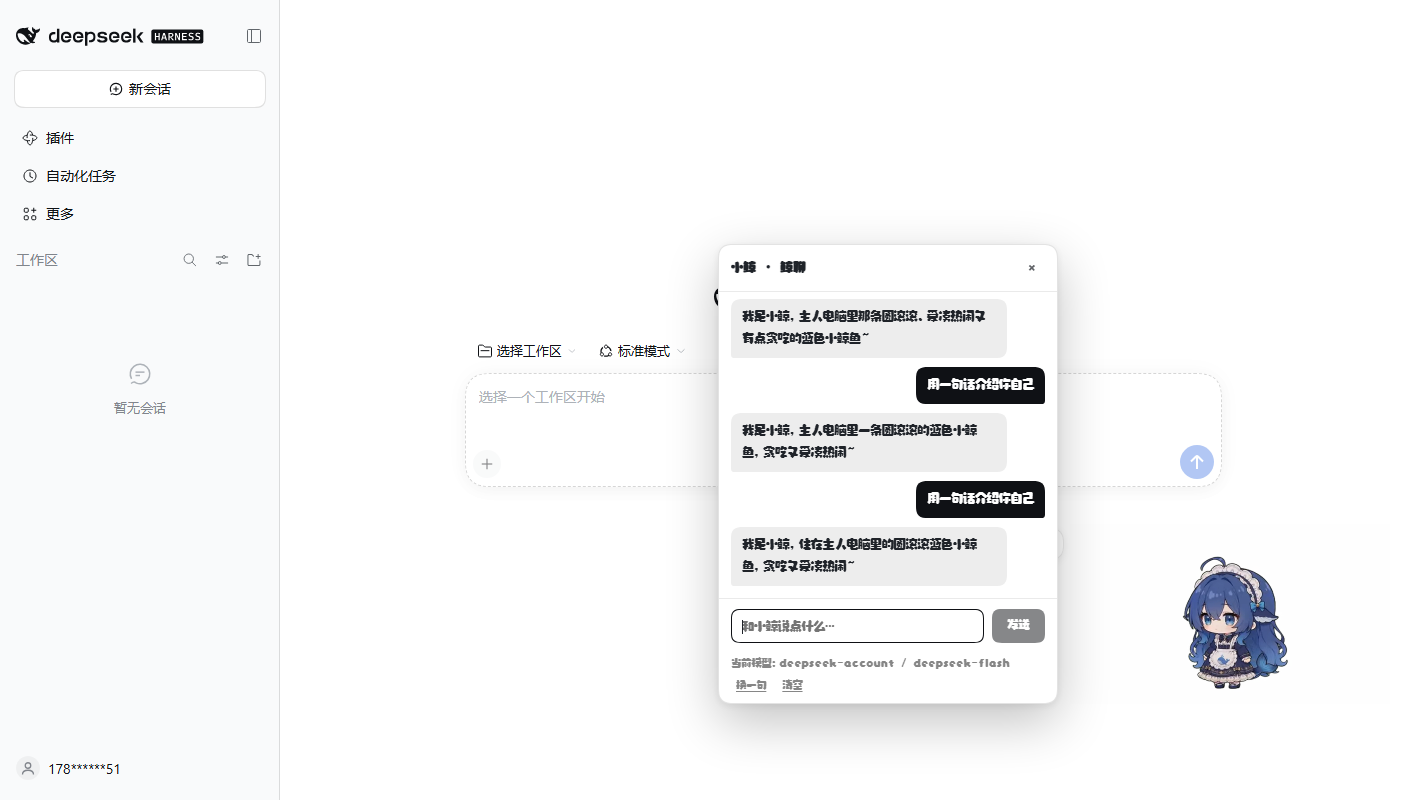
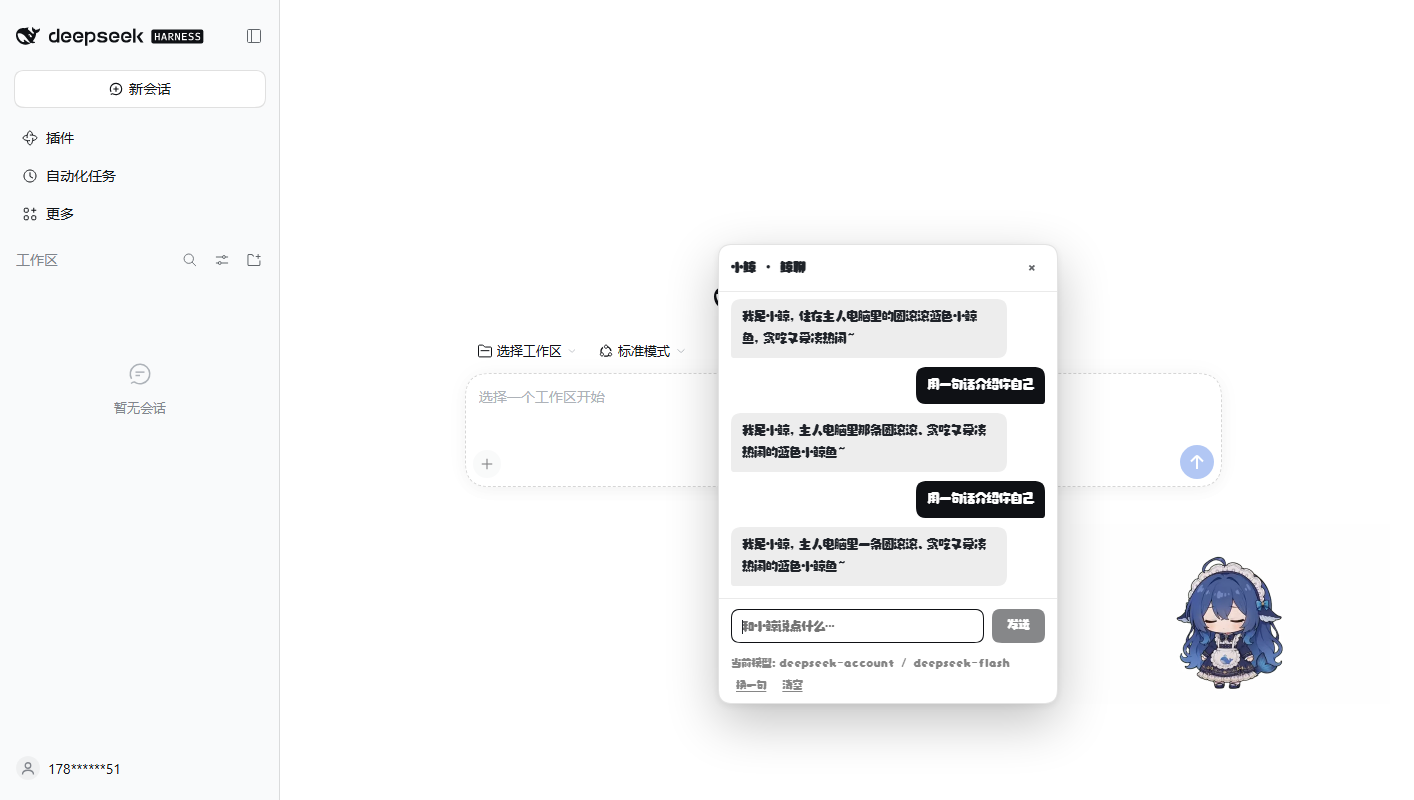
feat(ui): 去掉桌宠上的「打开对话面板」图标按钮，保留双击打开面板（bump 0.1.2）
- lib/client.js: 移除 .wc-chatbtn 按钮与相关样式；双击桌宠、单击气泡/未读角标仍可打开面板
- screenshots: 用新截图替换 pet.png / chat-panel.png（不再有 💬 按钮）
- README/docs/ARCHITECTURE: 交互说明同步
- test: 版本断言改为读取 package.json，避免每次发版都要改测试
- version: 0.1.1 -> 0.1.2

diff --git a/lib/client.js b/lib/client.js
@@ -479,12 +479,6 @@ window.__ModuleLoader__.load({
 .wc-fallback{display:block;width:100%;height:100%;object-fit:contain;pointer-events:none;user-select:none}
 .wc-fallback-emoji{display:flex;align-items:center;justify-content:center;font-size:calc(var(--wc-size,320px)*.3);line-height:1;text-shadow:0 6px 18px rgba(0,0,0,.18)}
 
-/* 💬 打开面板：贴宠物内侧，浅显但可聚焦 */
-.wc-chatbtn{position:absolute;top:4px;width:32px;height:32px;padding:0;display:flex;align-items:center;justify-content:center;border-radius:50%;border:1px solid rgba(127,127,127,.3);background:rgba(255,255,255,.92);color:#2b2f36;font-size:15px;line-height:1;cursor:pointer;pointer-events:auto;opacity:.5;box-shadow:0 2px 8px rgba(0,0,0,.12);transition:opacity .15s ease,transform .15s ease;z-index:8}
-.wc-chatbtn:hover,.wc-chatbtn:focus-visible{opacity:1;transform:scale(1.06)}
-.wc-anchor[data-corner$="right"] .wc-chatbtn{right:calc(100% + 6px)}
-.wc-anchor[data-corner$="left"] .wc-chatbtn{left:calc(100% + 6px)}
-[data-wc-dark="1"] .wc-chatbtn{background:rgba(40,44,52,.94);color:#eef1f6;border-color:rgba(255,255,255,.18)}
 
 /* 未读角标 */
 .wc-badge{position:absolute;top:-6px;right:-6px;min-width:20px;height:20px;padding:0 5px;border-radius:999px;border:2px solid rgba(255,255,255,.92);background:#e5484d;color:#fff;font-family:system-ui,sans-serif;font-size:11px;font-weight:600;line-height:16px;text-align:center;cursor:pointer;pointer-events:auto;z-index:9}
@@ -1484,31 +1478,6 @@ window.__ModuleLoader__.load({
                   },
                 }),
             fallbackNode,
-          ),
-          h(
-            "button",
-            {
-              type: "button",
-              className: "wc-chatbtn",
-              title: "打开对话面板",
-              "aria-label": "打开" + name + "的对话面板",
-              onClick: (e) => {
-                try {
-                  e.stopPropagation();
-                } catch (_) {
-                  /* ignore */
-                }
-                openPanel();
-              },
-              onPointerDown: (e) => {
-                try {
-                  e.stopPropagation();
-                } catch (_) {
-                  /* ignore */
-                }
-              },
-            },
-            "💬",
           ),
           unread > 0
             ? h(

diff --git a/README.md b/README.md
@@ -1,4 +1,4 @@
-# dsh-whale-chat 🐳💬
+# dsh-whale-chat 🐳
 
 [![npm](https://img.shields.io/npm/v/dsh-whale-chat)](https://www.npmjs.com/package/dsh-whale-chat)
 [![license](https://img.shields.io/badge/code-MIT-blue)](https://github.com/Artificialimbecile/dsh-whale-chat/blob/main/LICENSE)
@@ -16,7 +16,7 @@
 | 功能 | 说明 |
 |---|---|
 | 🐳 透明桌宠 | 640×360 VP9-alpha `.webm` 动画：待机呼吸 / 随机小动作 / 点击回应 / 拖拽 / 思考 / 说话 / 出门溜达；可拖到四个角，位置自动保存 |
-| 💬 主动聊天 | 双击宠物或点 💬 打开对话面板，Enter 发送、Shift+Enter 换行；对话记忆持久化，重启不丢 |
+| 💬 主动聊天 | 双击宠物打开对话面板（她说话的气泡也可以点开），Enter 发送、Shift+Enter 换行；对话记忆持久化，重启不丢 |
 | 🎭 可配置人设 | 名字 / 她怎么称呼你 / 她怎么自称 / 人设正文（≤20000 字）；与时间背景一起拼成 system 提示词 |
 | 🌏 随机上网 | 按「间隔 × 随机抖动」自己出门，从来源清单随机挑站点抓取，让模型用人设口吻把见闻说给你听；支持每日上限、安静时段、失败降级 |
 | ⚙ 设置页 | DSH 设置 →「鲸聊」：人设、对话模型、上网偏好、来源清单、外观、状态与一键工具 |
@@ -74,7 +74,7 @@ dsh plugin --profile desktop remove dsh-whale-chat
 ## 快速上手
 
 1. **设置 → 鲸聊**：改名字 / 称呼，在「人设正文」写几行她的来历、语气、在意什么（不写也能用内置默认人设）。
-2. 点右下角鲸鱼上的 💬，发一句「在吗」，看她的回复。
+2. 双击右下角鲸鱼打开对话面板，发一句「在吗」，看她的回复。
 3. **上网逛逛**：确认开关与间隔；点「立即上网看看」立刻抽一个来源、抓取并让她说给你听。
 4. 来源清单每行一个：`名称 | URL | 类型`，类型可写 `auto` / `json` / `rss` / `html`（留空按 auto）。想加自己的 RSS 或站点就加一行。
 

diff --git a/docs/ARCHITECTURE.md b/docs/ARCHITECTURE.md
@@ -41,7 +41,7 @@ dsh-whale-chat/
 
 - 入口：`window.__ModuleLoader__.load({ id:'dsh-whale-chat', factory })`；exports `{ name, inject:['slots'], apply }`。
 - 两个槽位：
-  - `shell.overlay`（order 1200）：固定定位、`pointer-events:none` 的容器里放 `<video muted autoplay playsinline>` 桌宠 + 气泡 + 💬 按钮 + 未读角标 + 对话面板；拖拽用 pointer events，松手按最近角落局部 `POST /api/settings { appearance }`。
+  - `shell.overlay`（order 1200）：固定定位、`pointer-events:none` 的容器里放 `<video muted autoplay playsinline>` 桌宠 + 气泡 + 未读角标 + 对话面板；拖拽用 pointer events，松手按最近角落局部 `POST /api/settings { appearance }`；双击桌宠（或单击气泡/角标）打开对话面板，不再有独立的「打开面板」图标按钮。
   - `settings.section`（label「鲸聊」）：六组配置（她是谁 / 人设 / 对话 / 上网 / 外观 / 状态与工具），数据驱动渲染，逐字段中文校验。
 - 动画状态机：`idle`（待机 + 45/45/10 加权随机小动作/位移）、`thinking`（等待回复循环）、`talk`（回复后播碎碎念）、`roam`（螃蟹走路→东张西望）、`happy`（点击回应随机）、`drag`；素材加载失败依次回退 `icon.png` → 占位块，界面不会白屏。
 - 主动消息轮询：每 12 秒 `GET /api/messages?afterId=cursor`，失败指数退避到 60s；首次挂载只同步基线，不弹历史气泡。
